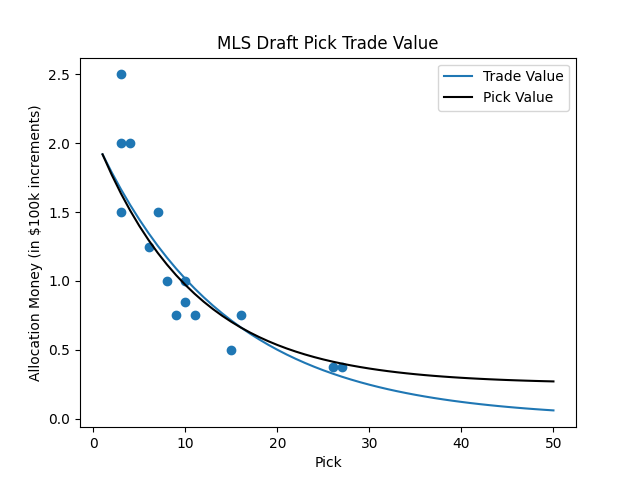
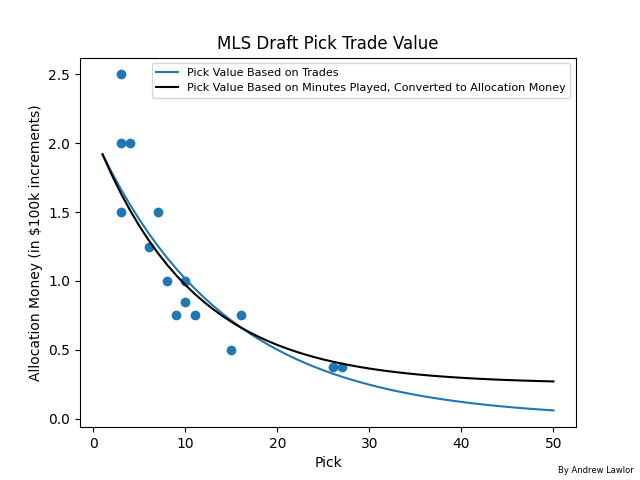
cleaned up some code

Changed region(s): [[0.25, 0.125, 0.9062, 0.2188], [0.875, 0.9688, 1.0, 1.0]]

diff --git a/eval_trades.py b/eval_trades.py
@@ -37,17 +37,25 @@ print(polyfit_model[4] + polyfit_model[31])
 print(polyfit_model[30] + 125000)
 fig, ax = plt.subplots()
 ax.scatter(trade_dollars_df['Pick'], trade_dollars_df['$'] / 100000)
-ax.plot(xvals, polyfit_model / 100000, label='Trade Value')
+ax.plot(xvals, polyfit_model / 100000, label='Pick Value Based on Trades')
 pv_df = pd.read_csv('./output/pick_values.csv')
-ax.plot(pv_df['Pick'], pv_df['Value']*polyfit_model[0]/(pv_df['Value'][0] * 100000), color='black', label='Pick Value')
+ax.plot(pv_df['Pick'], pv_df['Value']*polyfit_model[0]/(pv_df['Value'][0] * 100000), color='black', label='Pick Value Based on Minutes Played, Converted to Allocation Money')
 ax.set_ylabel('Allocation Money (in $100k increments)')
 ax.set_xlabel('Pick')
-ax.legend()
+ax.legend(fontsize=8)
 ax.set_title('MLS Draft Pick Trade Value')
+fig.text(
+  s='By Andrew Lawlor',
+  fontsize=6,
+  x=0.99,
+  y=0.01,
+  ha='right',
+  va='bottom'
+)
 plt.savefig('./output/trade dollars.png')
 
-pv_df['Allocation Money Value'] = pv_df['Value']*polyfit_model[2]/pv_df['Value'][2]
-print(pv_df[['Pick', 'Value', 'Allocation Money Value']])
+pv_df['Allocation Money Value'] = pv_df['Value']*polyfit_model[0]/pv_df['Value'][0]
+pv_df[['Pick', 'PctValue', 'Allocation Money Value']].to_csv('./output/allocation money values.csv', index=False)
 
 def get_value(pick, pv_df):
   return pv_df['Allocation Money Value'][pick - 1]

diff --git a/eval_values.py b/eval_values.py
@@ -134,6 +134,14 @@ sns.barplot(ax=ax, x=draft_team_df.index, y=draft_team_df['Value_Over_Expected']
 ax.set_xticklabels(draft_team_df.index, rotation=90, fontsize=6)
 ax.set_ylabel('Avg. Draft Pick Efficiency')
 ax.set_title('MLS Draft Efficiency By Team')
+fig.text(
+  s='By Andrew Lawlor',
+  fontsize=6,
+  x=0.99,
+  y=0.01,
+  ha='right',
+  va='bottom'
+)
 plt.savefig('./output/Draft Teams.png')
 # print(draft_team_df.sum())
 
